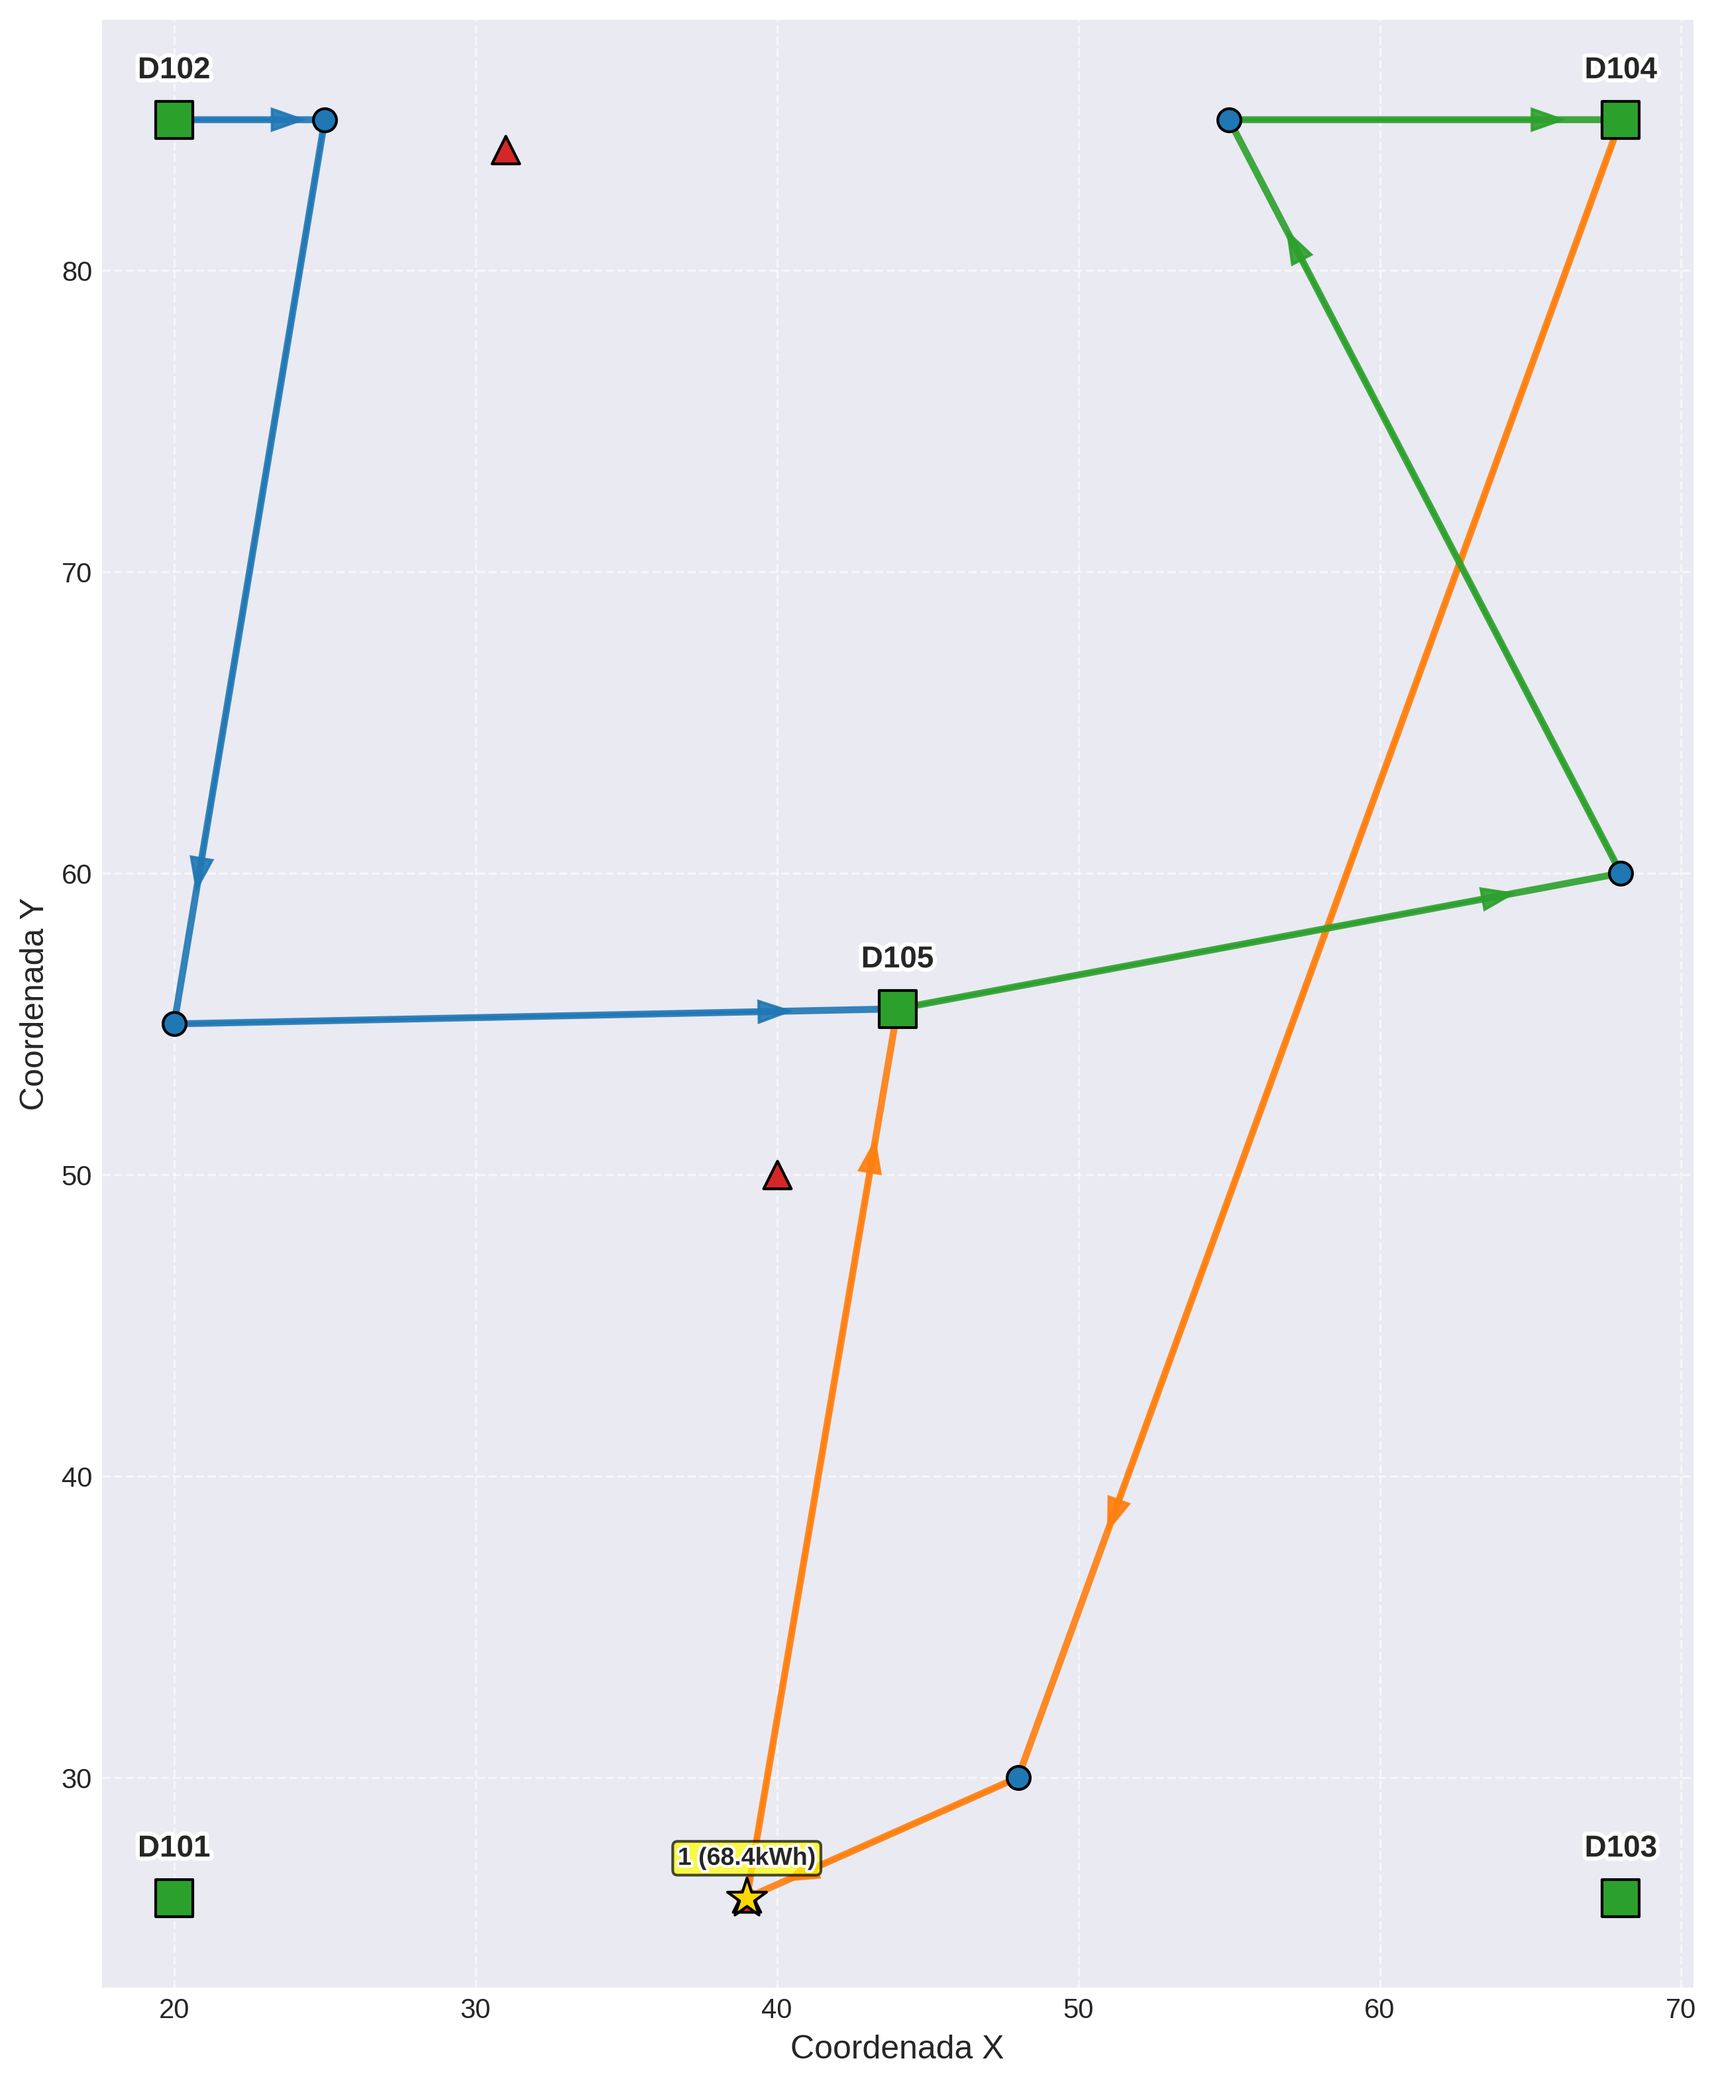
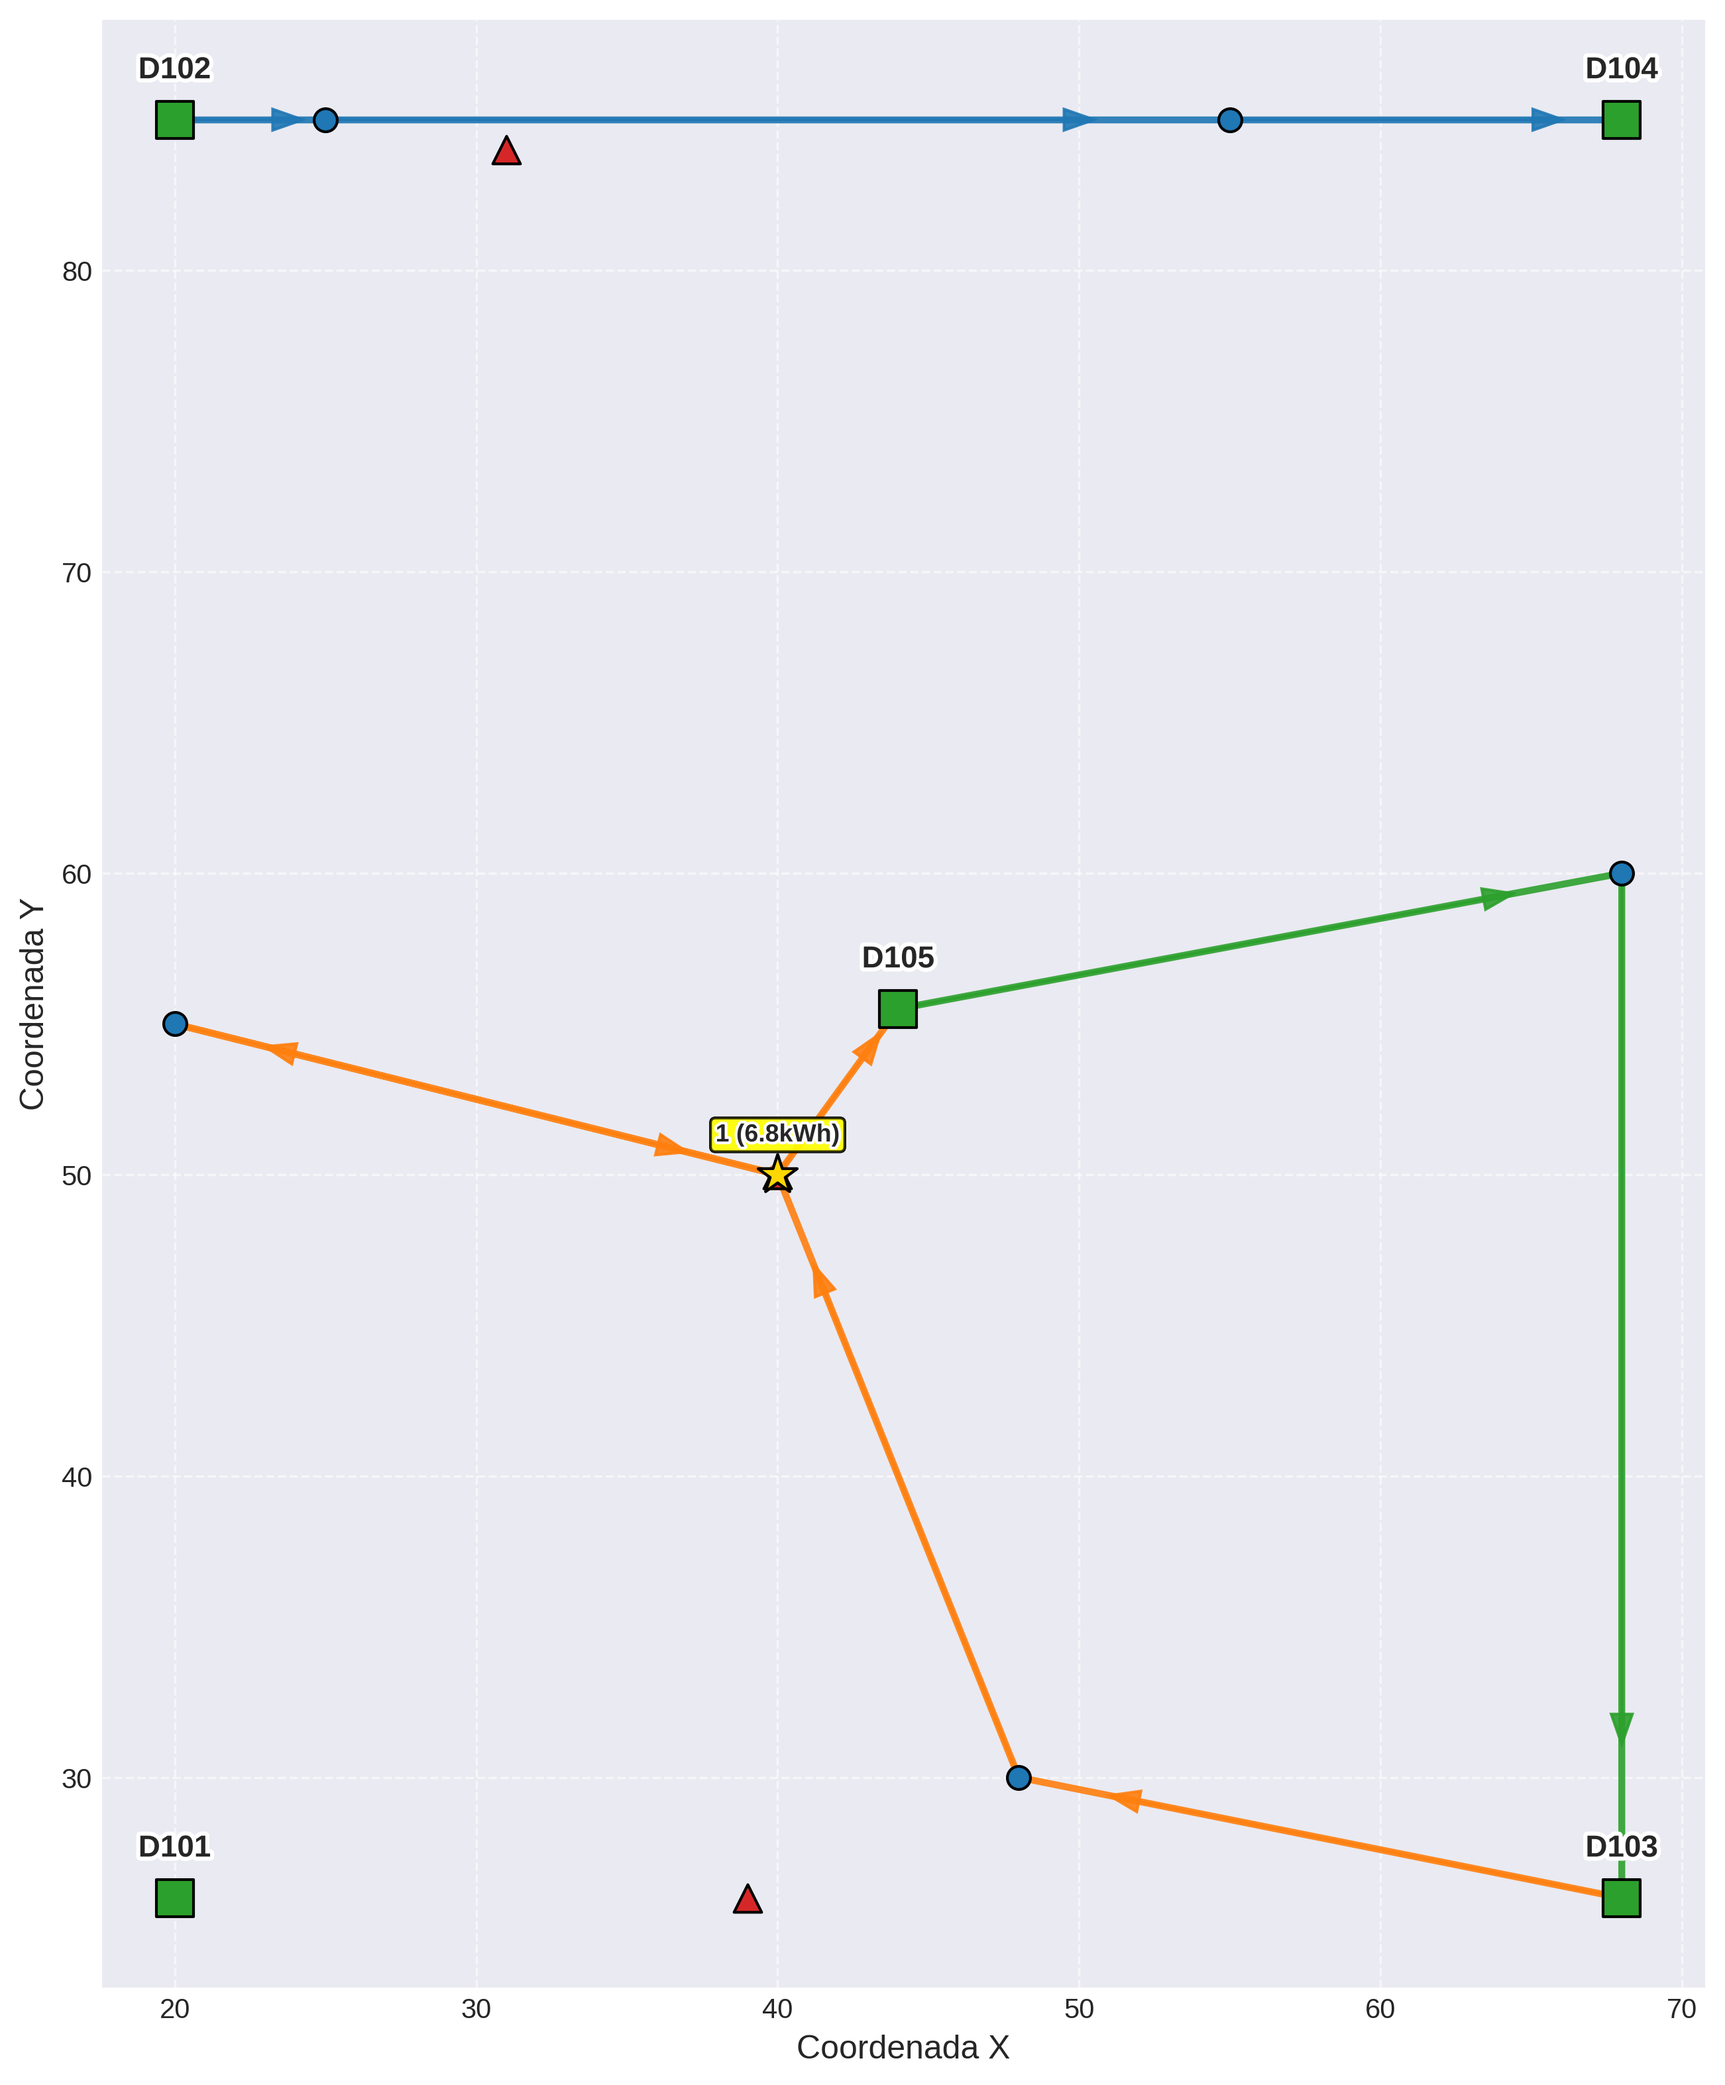
fix: recharge realocation

diff --git a/src/EVRP/local_search/recharge_realocation.py b/src/EVRP/local_search/recharge_realocation.py
@@ -54,26 +54,34 @@ class RechargeRealocation:
         if len(customer_sequence) < 3:  # Need at least depot, customer, depot
             return False
         
-        # Calculate total distance between consecutive customers
         total_distance = self._calculate_total_distance(customer_sequence)
         
-        # AT is the maximum range (battery capacity / consumption rate)
         AT = self.instance.vehicle.max_range
 
         if total_distance <= AT:
+            stations_to_remove = []
             for idx, node in enumerate(route.nodes):
                 if node.type == NodeType.STATION:
-                    route.nodes.remove(node)
-                    if node.id in route.charging_decisions:
-                        route.charging_decisions.pop(node.id)
-                    route.evaluate(self.instance)
-                    if not route.is_feasible:
-                        route.nodes.insert(idx, node)
-                        route.charging_decisions[node.id] = (node.technologies[0], node.technologies[0].power)
-                        route.evaluate(self.instance)
-                        return False
-                    return True
-            return False 
+                    stations_to_remove.append((idx, node))
+            
+            if not stations_to_remove:
+                return False
+            
+            for original_idx, station_node in stations_to_remove:
+                route.nodes.remove(station_node)
+                if station_node.id in route.charging_decisions:
+                    route.charging_decisions.pop(station_node.id)
+            
+            route.evaluate(self.instance)
+            
+            if not route.is_feasible:
+                for original_idx, station_node in reversed(stations_to_remove):
+                    route.nodes.insert(original_idx, station_node)
+                    route.charging_decisions[station_node.id] = (station_node.technologies[0], station_node.technologies[0].power)
+                route.evaluate(self.instance)
+                return False
+            else:
+                return True 
         
         a, b = self._find_recharge_interval(customer_sequence, AT)
         if a > b:

diff --git a/src/process_single.py b/src/process_single.py
@@ -63,7 +63,7 @@ def process_single_instance(instance_file):
             
     
     final_solutions = gvns.run(initial_solutions)
-    
+
     # Mostra resultados finais
     print("\n" + "="*70)
     print("RESULTADOS FINAIS")
@@ -74,6 +74,12 @@ def process_single_instance(instance_file):
         
         # Ordena soluções por qualidade
         final_solutions.sort(key=lambda x: (x.total_cost, x.total_distance))
+
+        for idx, solution in enumerate(final_solutions):
+            print(f"SOL: {idx+1}")
+            for route in solution.routes:
+                for id in route.charging_decisions:
+                    print(route.charging_decisions[id][0].id)
         
         print("\nTop melhores soluções:")
         print("Rank | Distância | Veículos | Custo   | Factível")
